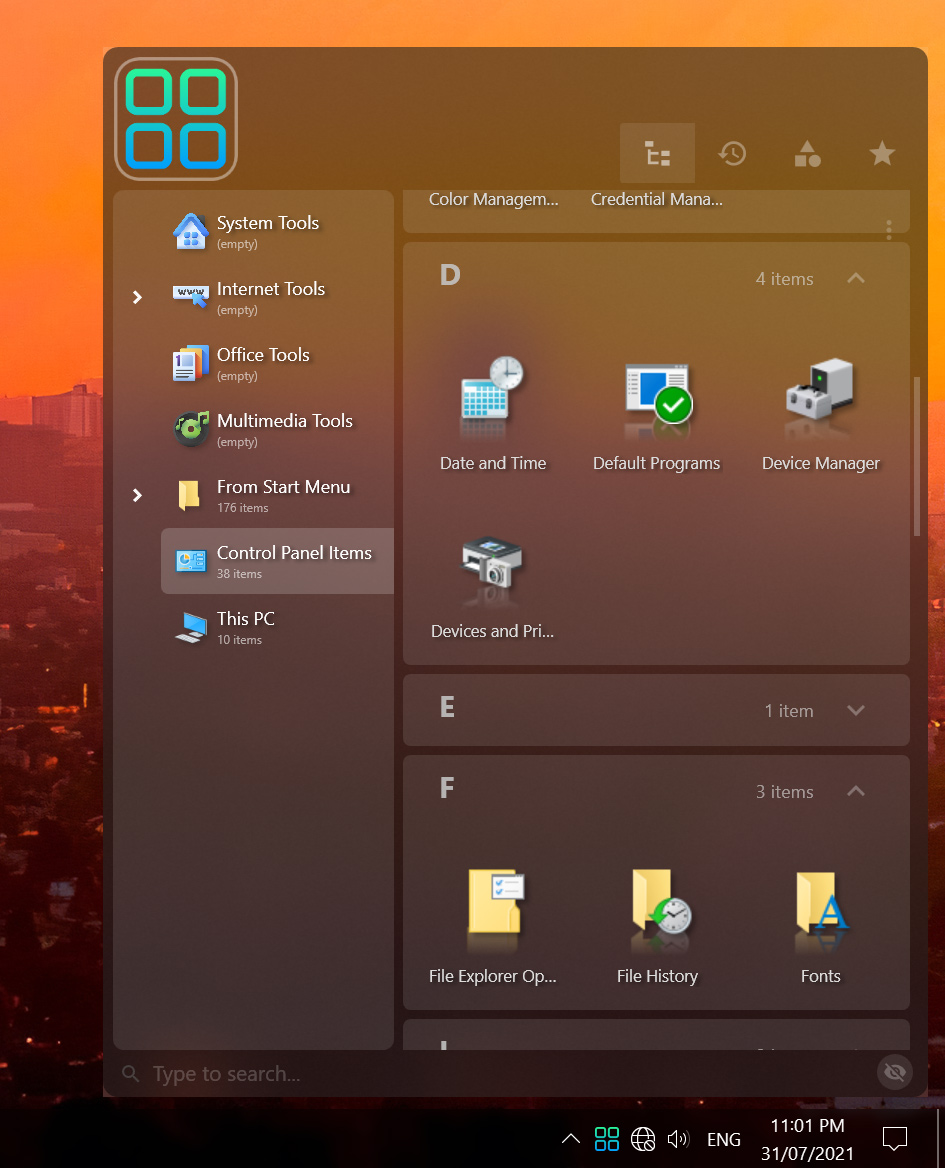
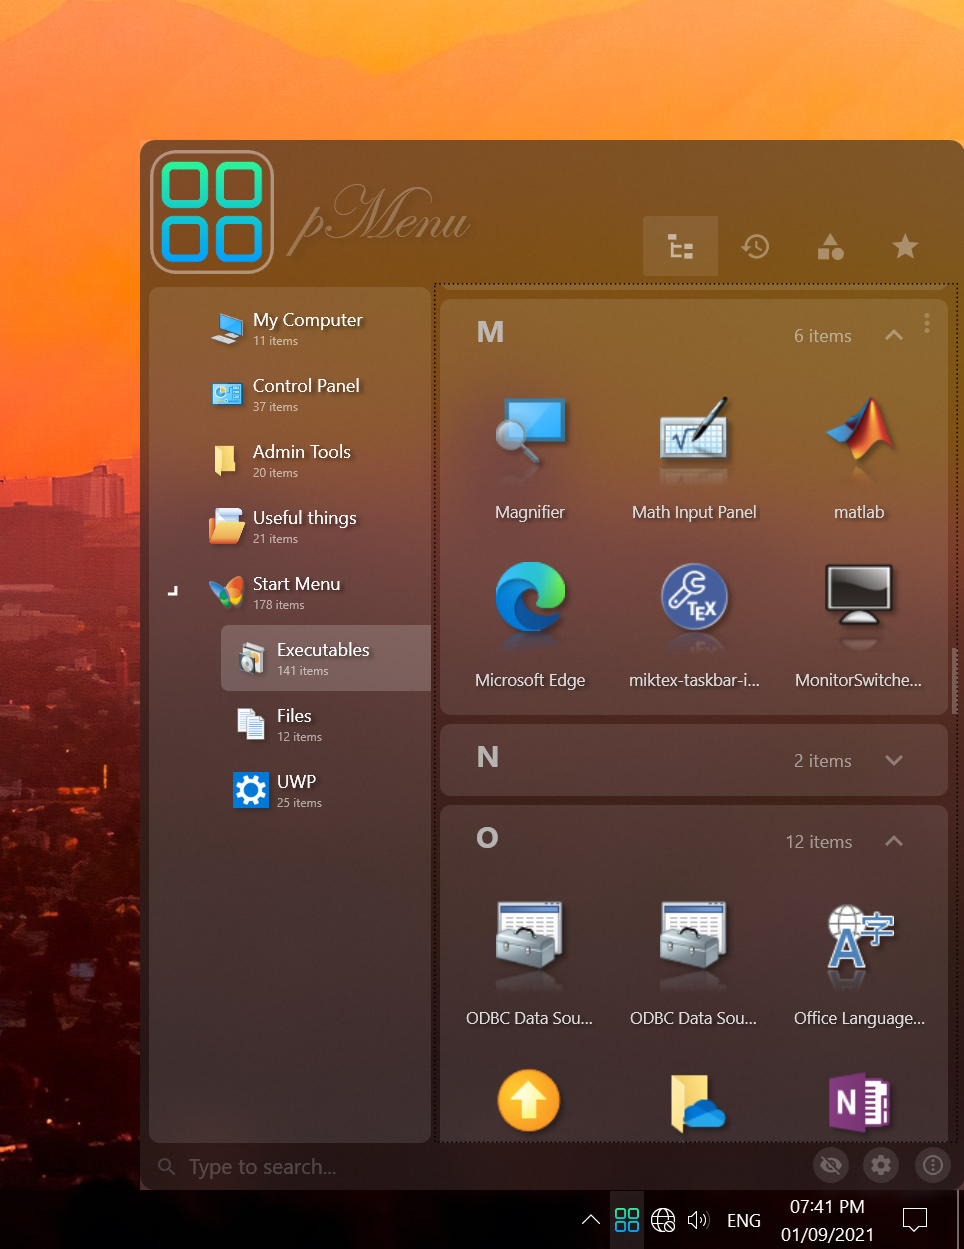
updated picture and readme

diff --git a/README.md b/README.md
@@ -1,12 +1,12 @@
 # pMenu (Under development)
 
-pMenu is a free, open source, portable, modern, customizable start menu alternative.
+pMenu is a free, open source, portable, modern and customizable start menu alternative.
 
 <img src="images/pMenu_img.jpg" width=75%>
 
 # Features
 
-- Supported links:
+- Supported types:
   - classical Win32 applications.
   - modern UWP apps.
   - shell objects (like control panel).
@@ -14,14 +14,16 @@ pMenu is a free, open source, portable, modern, customizable start menu alternat
   - usual files.
 - Relative path support, useful for links to portable apps.
 - Categories of unlimited hierarchy depth.
-- individual Grouping and sorting for each category\view.
+- Internal links: same item can exisit in multiple places.
+- Individual Grouping and sorting for each category\view.
 - Full drag and drop support, custom ordering.
-- Custom icons to any item. Custom avatar.
+- Custom icons to any item, custom avatar, loading icons from libraries.
 - Search, recent apps, most used, favorite apps.
-- Broken items are detected, and can be hidden instead of deleting them, so they will be available again when you reinstall/de-archive the program.
+- Broken items are detected, and can be hidden instead of deleting them, so they will be available again when you reinstall/de-archive, or change PC.
 - Auto run pMenu, and auto run apps of custom time delay after menu start.
-- Set apps to run as administrator, without the need to indicate the admin password every time.
+- Configure to run apps as administrator, without the need to indicate the admin password every time.
 - Animations, icon reflections, and shadows for your eye please.
+- Ability to hide/show some parts of Menu Ui for your likings.
 
 # Participating
 
@@ -41,7 +43,7 @@ And it exists thanks to the following great libraries:
 
 - FluentWPF
 
-  v0.9.0
+  v0.10.0 (11.08.2021)
 
   > https://github.com/sourcechord/FluentWPF
 
@@ -81,7 +83,12 @@ And it exists thanks to the following great libraries:
 
   > https://github.com/bblanchon/WpfBindingErrors
 
-- Main application Icon
+- Extracting Icons from EXE/DLL and Icon Manipulation
+
+  v1.0 (17 Jan 2009)
+  > https://www.codeproject.com/Articles/32617/Extracting-Icons-from-EXE-DLL-and-Icon-Manipulatio
+
+- pMenu internal Icons
 
   > https://www.freepik.com/
 
